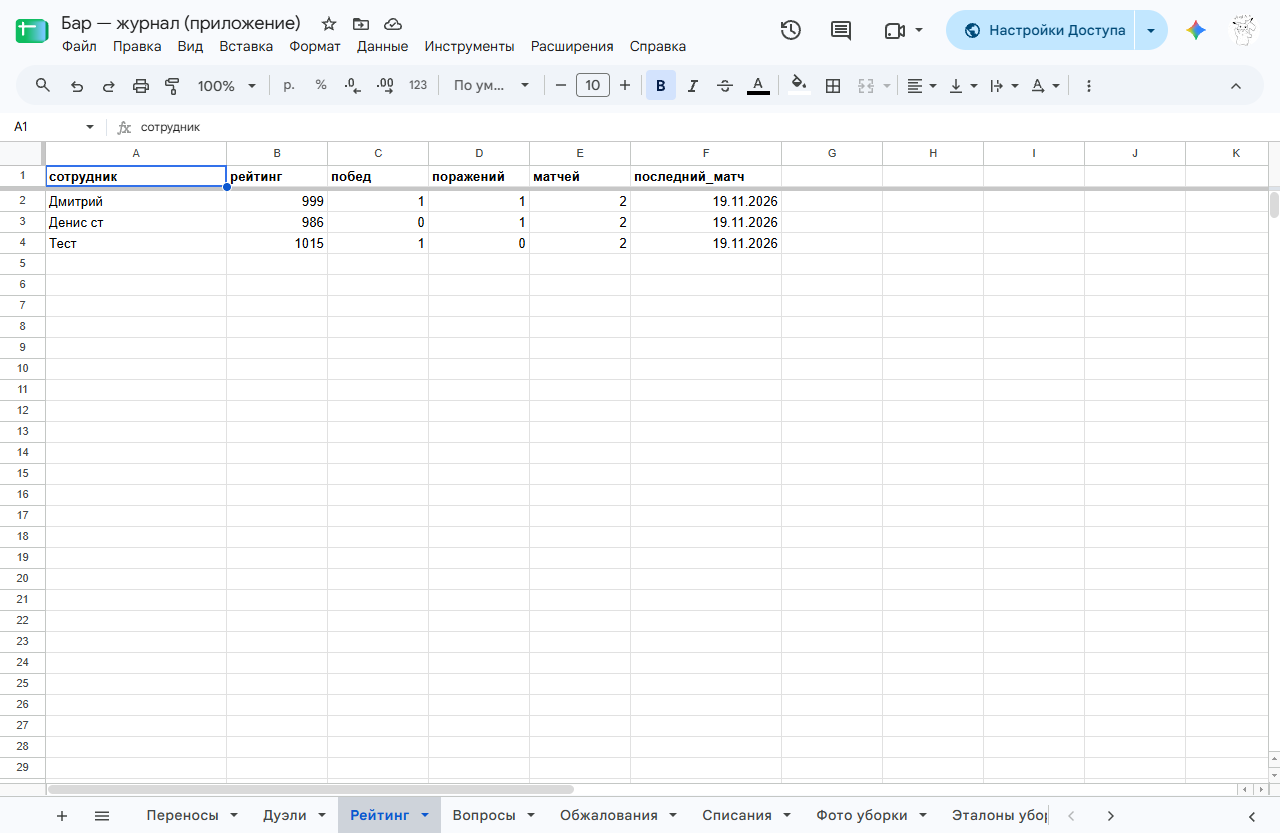
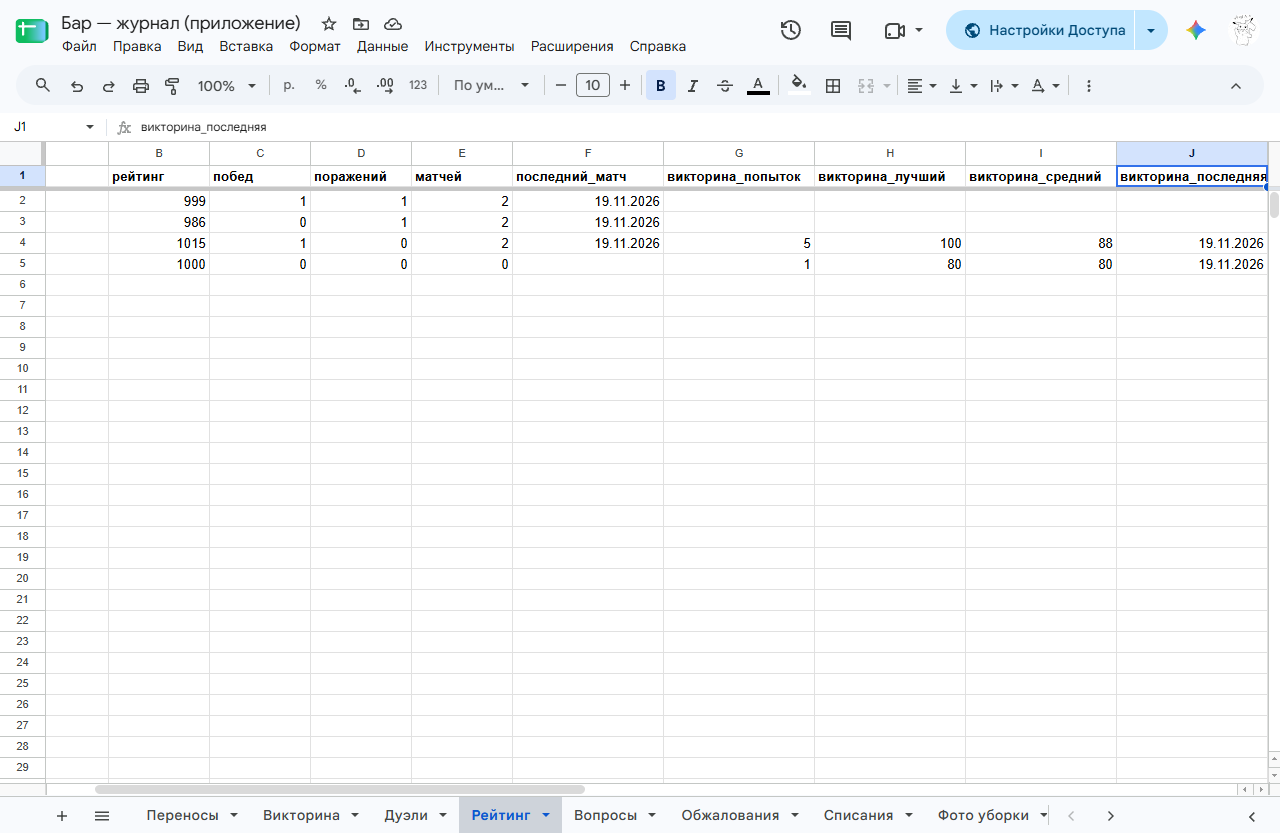
docs(викторина): скриншоты и отчёт по рейтингу попыток

diff --git a/docs/quiz-rating/ОТЧЁТ.md b/docs/quiz-rating/ОТЧЁТ.md
@@ -1,0 +1,124 @@
+# Рейтинг викторины — отчёт
+
+## Что добавлено
+
+**Бэкенд** (`apps-script/Код.gs`, развёрнуто версией 15 того же `/exec`):
+
+* `POST {action:'quizResult', attemptId, employee, correct, total, seconds, bankVersion}`
+  → `{ok:true, duplicate, attempts, best, bestCorrect, bestTotal, average, lastAt}`;
+* лист **«Викторина»** (создаётся автоматически):
+  `attempt_id | дата | сотрудник | верно | всего | секунд | версия_банка`;
+* в **«Рейтинг»** дописаны четыре колонки **справа** от дуэльных, порядок A–F не менялся:
+  `сотрудник | рейтинг | побед | поражений | матчей | последний_матч |`
+  `викторина_попыток | викторина_лучший | викторина_средний | викторина_последняя`;
+* «лучший» и «средний» — проценты (0…100), «последняя» — дата. Агрегаты считаются
+  по всем строкам сотрудника в «Викторине»;
+* идемпотентность: тот же `attemptId` возвращает `duplicate:true` и текущие агрегаты,
+  второй строки не создаёт;
+* проверки: `attemptId` корректного вида, сотрудник активен, `total > 0` целое,
+  `0 ≤ correct ≤ total`, `seconds` от 0 до 3600. Иначе `{ok:false, error}`;
+* если сотрудник ещё не играл дуэль, строка в «Рейтинге» создаётся с дуэльными
+  значениями по умолчанию (1000, 0, 0, 0) и заполненными викторинными колонками.
+
+**Фронтенд** (`js/app.js`, `styles.css`, `sw.js`):
+
+* на экране результата попытка один раз сохраняется в IndexedDB (`attemptId`) и
+  отправляется на сервер; ответ сразу показывает личный рекорд;
+* при отсутствии сети запись лежит в той же очереди `kv «quiz:disputes»`, что и
+  обжалования, и досылается при следующем открытии/появлении сети;
+* на экране старта викторины строка «Лучший результат: … · попыток: …» берётся из
+  локального кэша `kv «quiz:stats»` — без ожидания сети; если кэша нет, строки нет;
+* офлайн-прохождение не изменилось: вопросы по-прежнему из кэша, результат уходит позже.
+
+## Схема «Рейтинга» целиком
+
+| Кол. | Заголовок | Что значит |
+|---|---|---|
+| A | `сотрудник` | имя из «Сотрудников» |
+| B | `рейтинг` | Elo дуэли, старт 1000 |
+| C | `побед` | победы в дуэлях |
+| D | `поражений` | поражения в дуэлях |
+| E | `матчей` | сыгранные дуэли |
+| F | `последний_матч` | дата последней дуэли |
+| G | `викторина_попыток` | число попыток викторины |
+| H | `викторина_лучший` | лучший процент (0…100) |
+| I | `викторина_средний` | средний процент по попыткам |
+| J | `викторина_последняя` | дата последней попытки |
+
+Порядок A–F не переставлялся; колонки G–J добавлены справа. На уже существующем листе
+с тремя дуэльными строками после первого `quizResult` появились только заголовки G–J,
+данные A–F сохранились.
+
+## Что вернул `quizResult` на тестовой попытке
+
+Первая попытка (9 из 10, 123 с):
+
+```json
+{"ok":true,"duplicate":false,"attempts":1,"best":90,"bestCorrect":9,"bestTotal":10,"average":90,"lastAt":"2026-11-19T12:28:35.680Z"}
+```
+
+Вторая попытка (10 из 10, 60,5 с):
+
+```json
+{"ok":true,"duplicate":false,"attempts":2,"best":100,"bestCorrect":10,"bestTotal":10,"average":95,"lastAt":"2026-11-19T12:28:46.647Z"}
+```
+
+## Дубль `attemptId`
+
+Повторная отправка того же `attemptId` вернула:
+
+```json
+{"ok":true,"duplicate":true,"attempts":1,"best":90,"bestCorrect":9,"bestTotal":10,"average":90,"lastAt":"…"}
+```
+
+`attempts` осталось 1, в «Викторине» одна строка. На боевом `/exec` проверены также
+`total=0`, `correct>total`, `seconds>3600`, `seconds<0`, пустой `attemptId`,
+не-сотрудник — все отклонены; `seconds=3600` принимается.
+
+## Проверка фронтенда
+
+* попытка 10/10 через интерфейс → «Результат сохранён», «Лучший результат: 10 из 10 ·
+  попыток: 4» (сервер уже знал три тестовые попытки);
+* возврат на старт → строка рекорда видна сразу из кэша, без сети;
+* попытка при принудительно сломанном `fetch` для `quizResult` → «Результат сохранён
+  на телефоне — уйдёт, когда появится сеть», в IndexedDB 1 запись, на сервере пока нет;
+* восстановление `fetch` + событие `online` → очередь пуста, сервер вернул `attempts=5`,
+  средний 88; строка появилась в «Викторине»;
+* сотрудник без дуэльной строки → в «Рейтинге» создалась строка с рейтингом 1000,
+  нулями по дуэлям и заполненными G–J.
+
+Скриншоты: `01-start-record.png`, `02-result-record.png`, `03-offline-queued.png`,
+`04-sheet-attempts.png`, `05-sheet-rating.png`. В `docs/duel/06-sheet-rating.png`
+обновлён снимок общего листа «Рейтинг».
+
+## Развёртывание
+
+* `clasp push` — 3 файла; обновлено существующее развёртывание
+  `AKfycbzRXm4P2dC_xEmSrw4RjAXWk6J-Hav54iHrXK8xddGH9o5NcsdchIKkaZArwGqvAJN7-w`
+  до **версии 15** («Рейтинг викторины»); новых развёртываний не создавалось,
+  URL в `config.js` не менялся.
+* `clasp list-deployments` подтверждает тот же id с версией 15.
+
+## Ветка и коммиты
+
+Ветка `dsh-threads/6-d8833e` (от `main` = `f359e43`), в `main` не пушилось.
+Дуэль — отдельные коммиты `bfaa0b3`, `aad44f5`, `371f297`, `dd16363`.
+Рейтинг викторины — отдельные коммиты после них: `1860435` (бэкенд и фронтенд)
+и следующий docs-коммит (документация и скриншоты), чтобы дуэль можно было
+влить независимо.
+
+## Что осталось за владельцем
+
+* Решить судьбу тестовых попыток в «Викторине» и тестовых значений в «Рейтинге»
+  (в том числе строки сотрудника, добавленного только для проверки автосоздания).
+* Проверить на реальном телефоне и реальном мобильном интернете.
+* Если викторину будут проходить с нескольких устройств, локальный кэш рекорда
+  на каждом устройстве свой; серверные агрегаты при этом корректны и обновятся
+  при следующей успешной отправке.
+
+## Что не проверено
+
+* Реальный обрыв мобильной сети: имитировался отказ `fetch` и событие `online`.
+* Одновременные `quizResult` от нескольких устройств (защита — общий `LockService`,
+  нагрузка не тестировалась).
+* Визуальная вёрстка на узких экранах телефонов (проверка в Chrome на компьютере).

diff --git a/docs/quiz-rating/README.md b/docs/quiz-rating/README.md
@@ -1,0 +1,26 @@
+# Рейтинг викторины — проверка
+
+Боевой бэкенд развёрнут **версией 15** того же развёртывания (`/exec` не менялся).
+Приложение проверено на локальном сервере с боевым `config.js`.
+
+| Файл | Что видно |
+|---|---|
+| `01-start-record.png` | старт викторины: «Лучший результат: 10 из 10 · попыток: 5» из локального кэша |
+| `02-result-record.png` | результат попытки 10/10 и «Лучший результат… · попыток: 4», «Результат сохранён» |
+| `03-offline-queued.png` | результат без сети: «сохранён на телефоне — уйдёт, когда появится сеть», попыток уже 5 |
+| `04-sheet-attempts.png` | лист «Викторина»: сырые попытки, `attempt_id` в первой колонке |
+| `05-sheet-rating.png` | «Рейтинг»: дуэльные A–F и викторинные G–J; попытки, лучший, средний, последняя |
+
+Схема «Рейтинга» целиком (A–J):
+
+`сотрудник | рейтинг | побед | поражений | матчей | последний_матч | викторина_попыток | викторина_лучший | викторина_средний | викторина_последняя`
+
+Схема «Викторины»:
+
+`attempt_id | дата | сотрудник | верно | всего | секунд | версия_банка`
+
+Тестовые данные: в «Викторине» остались попытки тестового сотрудника и одна попытка
+сотрудника без дуэльной строки (проверка автосоздания строки в «Рейтинге»).
+Они **не удалялись** — решение за владельцем.
+
+Подробный отчёт: [ОТЧЁТ.md](ОТЧЁТ.md).

diff --git a/docs/duel/README.md b/docs/duel/README.md
@@ -12,7 +12,7 @@
 | `03-battle.png` | экран боя: сверху HP и рейтинг соперника, снизу свои, раунд 1 из 15, таймер 20 с, вопрос и 4 ответа |
 | `04-result.png` | результат: победа 10 : 0, 11 раундов, Elo 1000 → 1017 (+17), «Ещё раз» |
 | `05-sheet-duels.png` | лист «Дуэли»: три тестовые строки — `TESTJV`, `TEST-L7A6AT`, `TESTDN` (ничья 10:10 за 15 раундов) |
-| `06-sheet-rating.png` | лист «Рейтинг» после трёх матчей: Elo, победы, поражения, число матчей |
+| `06-sheet-rating.png` | лист «Рейтинг»: дуэльные колонки A–F и справа агрегаты викторины G–J (после трёх матчей и тестовых попыток) |
 
 Тестовые строки в «Дуэлях» помечены кодом, начинающимся с `TEST`; они **не удалялись** —
 решение за владельцем. В «Рейтинге» остались строки сотрудников, участвовавших в тестовых

diff --git a/docs/duel/ОТЧЁТ.md b/docs/duel/ОТЧЁТ.md
@@ -1,5 +1,8 @@
 # Дуэль v1 — отчёт
 
+> Позже добавлен рейтинг викторины (лист «Викторина» и колонки G–J в «Рейтинге»):
+> см. [`docs/quiz-rating/ОТЧЁТ.md`](../quiz-rating/ОТЧЁТ.md).
+
 ## Что добавлено
 
 **Бэкенд** (`apps-script/Код.gs`, выложен и развёрнут):
